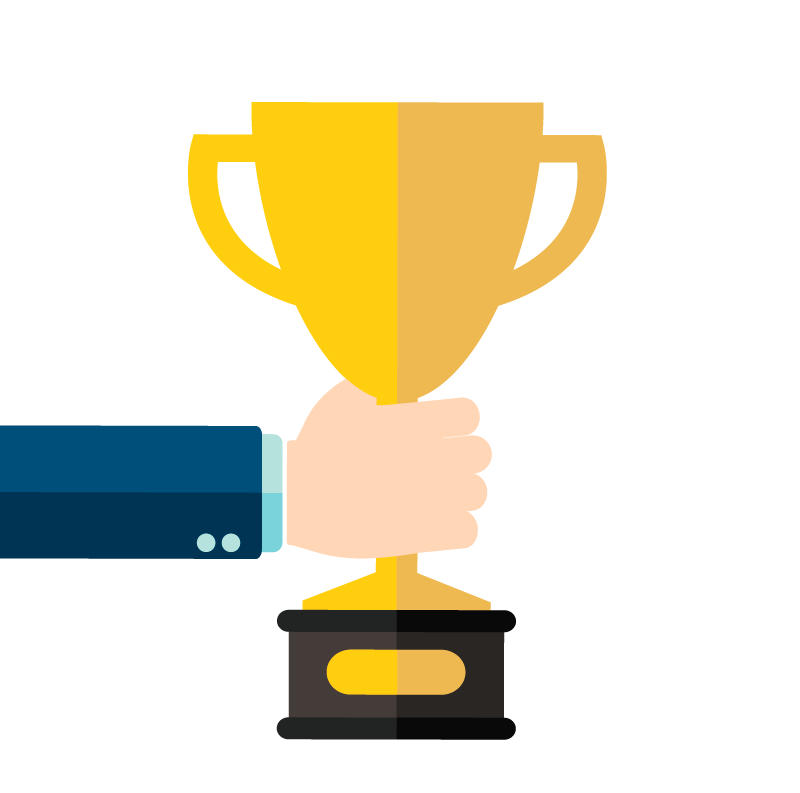
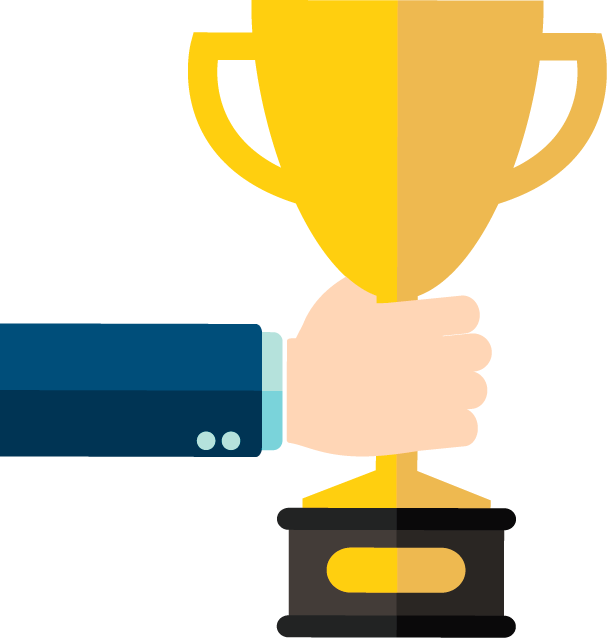
Deixar responsivo para 1024px

diff --git a/css/responsive.css b/css/responsive.css
@@ -1,0 +1,72 @@
+/*------------------------------ Responsive ----------------------------*/
+
+@media (max-width:1024px) {
+    
+    /*------------------------------ Intro ----------------------------*/
+
+    /* second intro */
+
+    .hot-desc{
+    	width: 400px;
+    	margin: 18% 0% 0% 5%;
+    }
+
+    .hot-img{
+    	margin-top: 8%;
+    }
+
+    /* third intro */
+
+    img#branch-l, img#branch-r{
+    	width: 500px;
+    }
+
+    .learn-img{
+    	margin-left: 24%;
+    }
+
+    .learn-desc{
+    	margin-top: 21%;
+    	margin-left: 37%;
+    } 
+
+    /* fourth intro */
+
+    .mao-r, .mao-l{
+    	width: 400px;
+    }
+
+    .fruit-img{
+    	margin-left: -37%;
+    }
+
+    .donate-desc{
+    	margin-left: 36%;
+    }
+
+    /* fiveth intro */
+
+    .map-div-desc{
+    	margin-top: -44%;
+    }
+
+    .map-img{
+    	width: 600px;
+    }
+
+    /* sixth intro */
+
+    .trophy-img{
+    	width: 550px;
+    }
+
+    img.podium-img{
+    	width: 400px;
+    	margin-top: 18%;
+    	margin-left:-20%; 
+    }
+
+    /*------------------------------ App ----------------------------*/
+
+
+}

diff --git a/index.html b/index.html
@@ -14,7 +14,7 @@
     <!-- Stylesheet -->
     <link rel="stylesheet" href="css/main.css">
      <!-- Resposive -->
-    <link rel="stylesheet" href="css/main.css">
+    <link rel="stylesheet" href="css/responsive.css">
     <!-- Title font "font-family: 'Josefin Slab', serif;" -->
     <link href="https://fonts.googleapis.com/css?family=Josefin+Slab" rel="stylesheet">
     <!-- Text font "font-family: 'Josefin Sans', sans-serif;" -->

diff --git a/css/main.css b/css/main.css
@@ -203,10 +203,6 @@ img#branch-r {
 	color: #fff;
 }
 
-.donate-img{
-	
-}
-
 .mao-l{
 	float: left;
 }
@@ -237,11 +233,12 @@ img#branch-r {
     color: #fff;
 }
 
-
 /* sixth intro */
 
 .trophy-img{
 	float: left;
+	padding-top: 2%;
+    padding-bottom: 2%;
 }
 
 img.podium-img {
